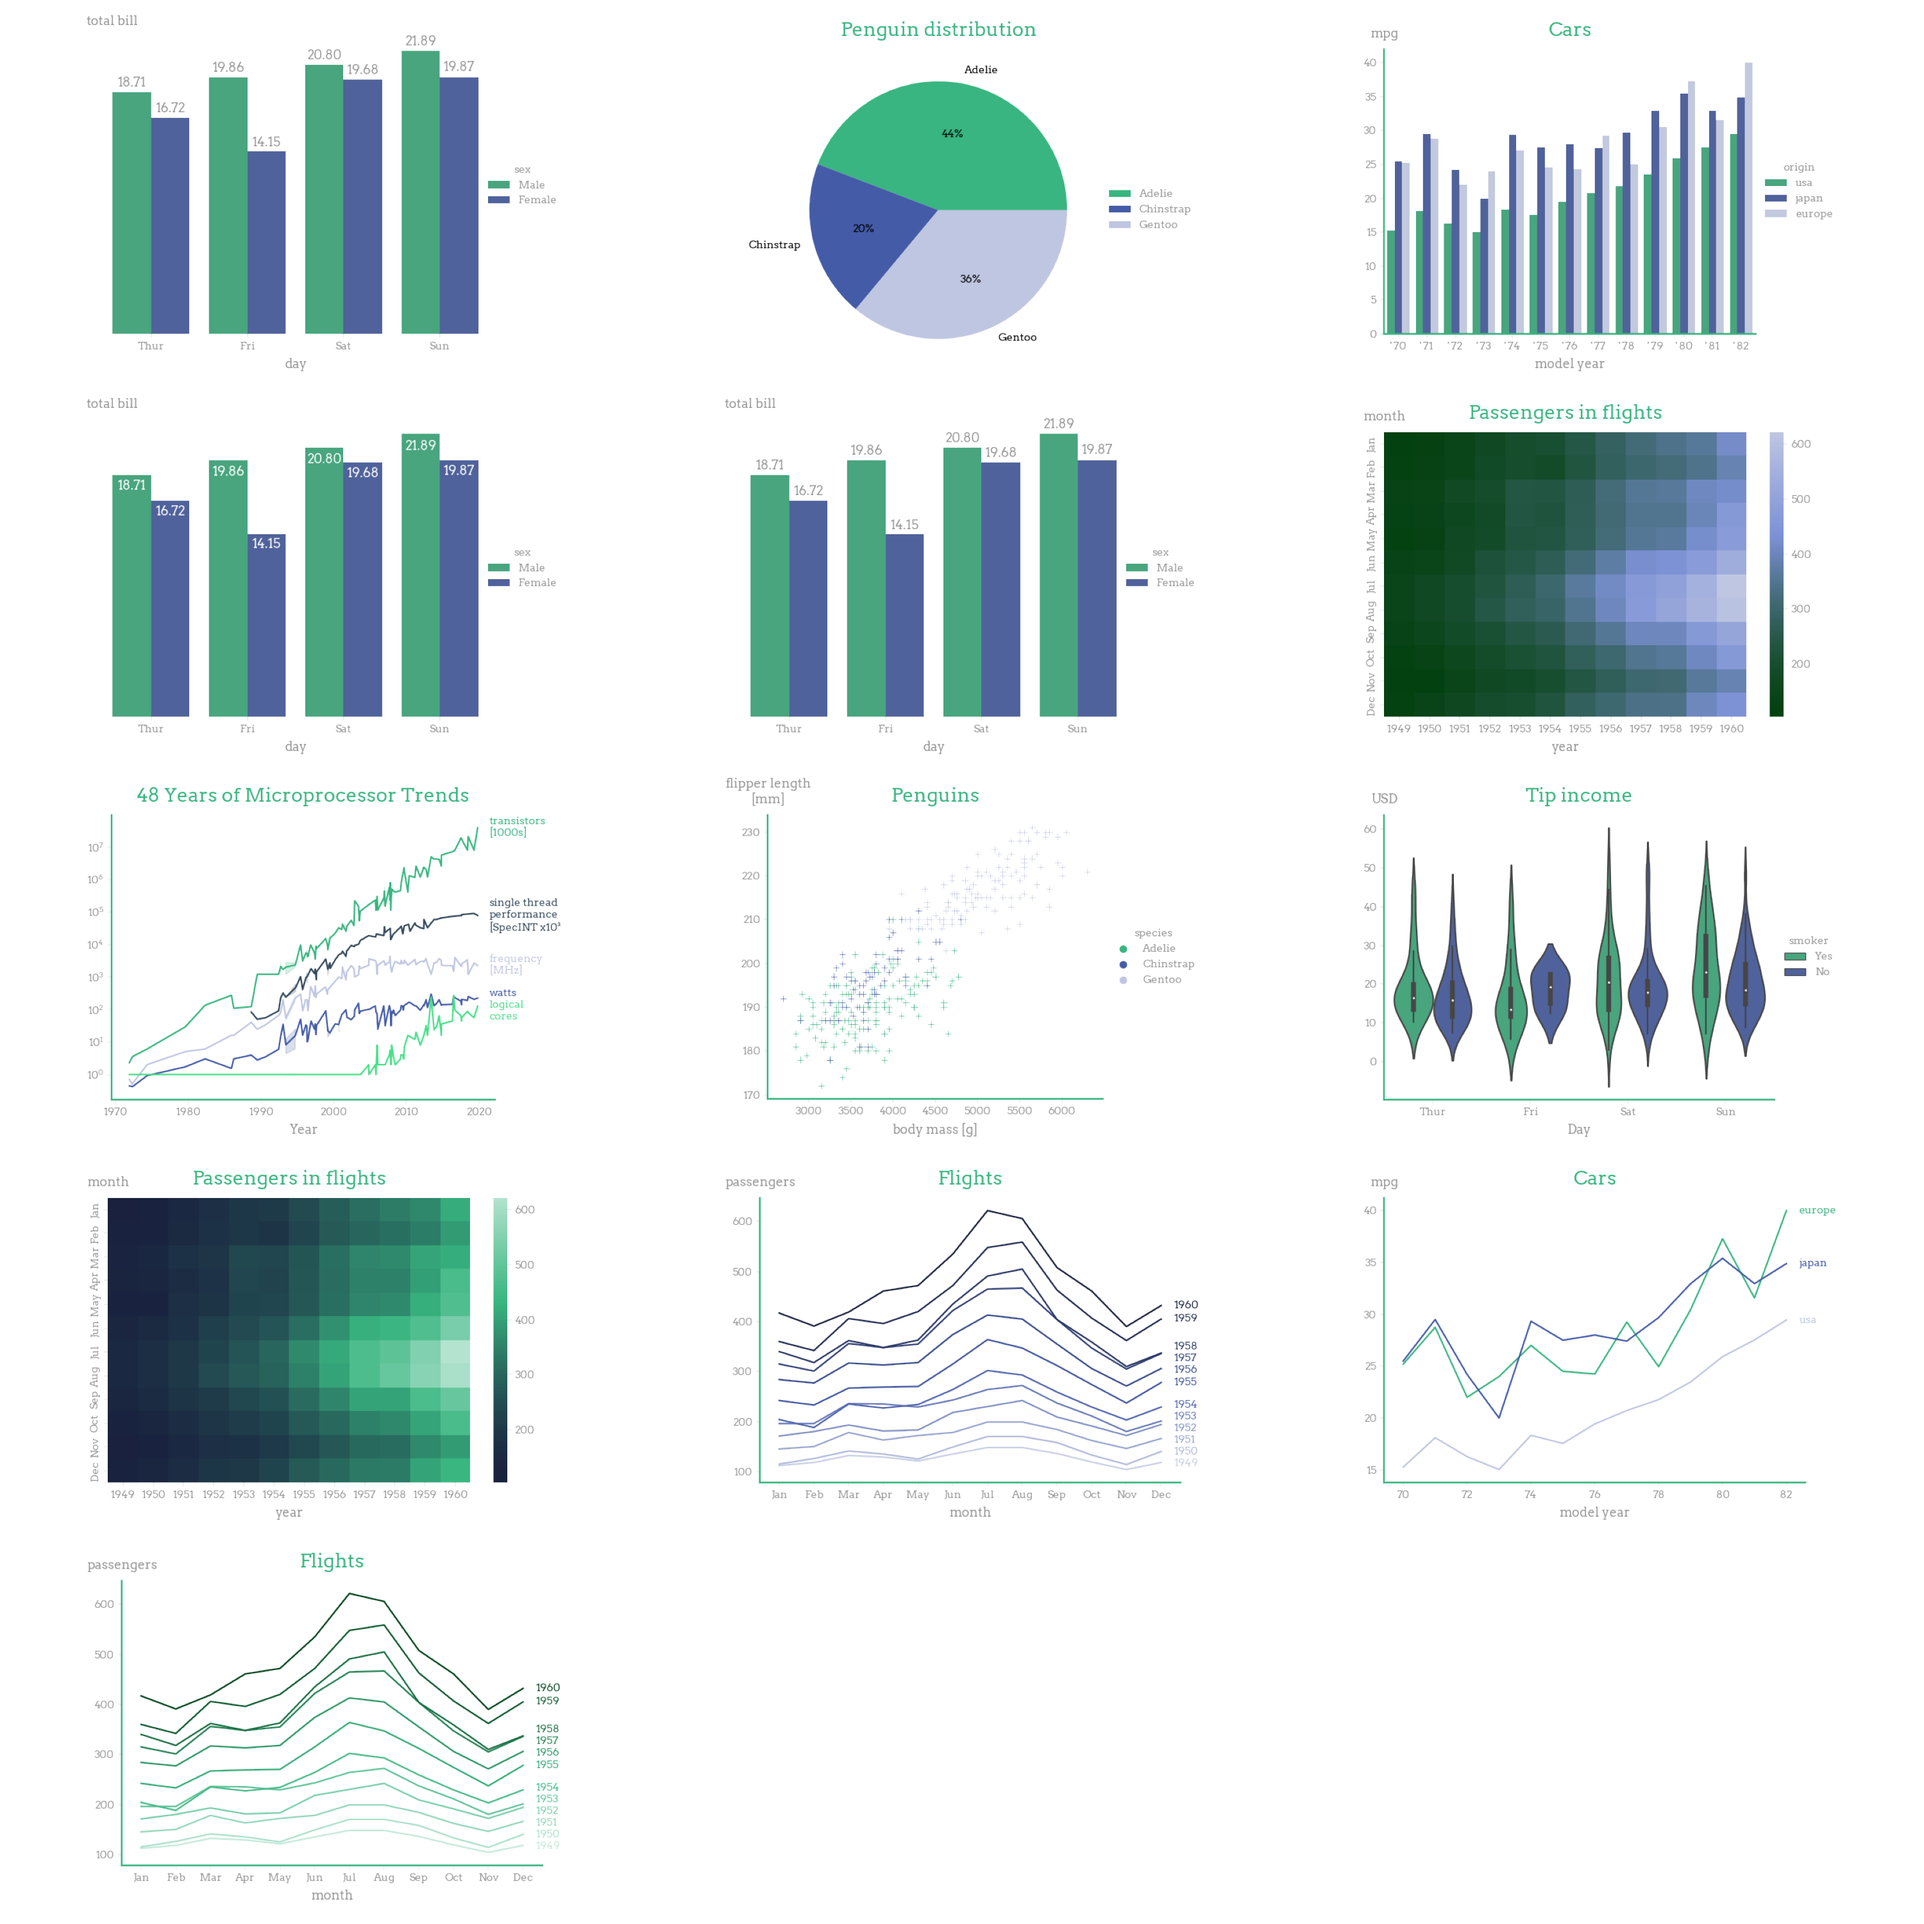
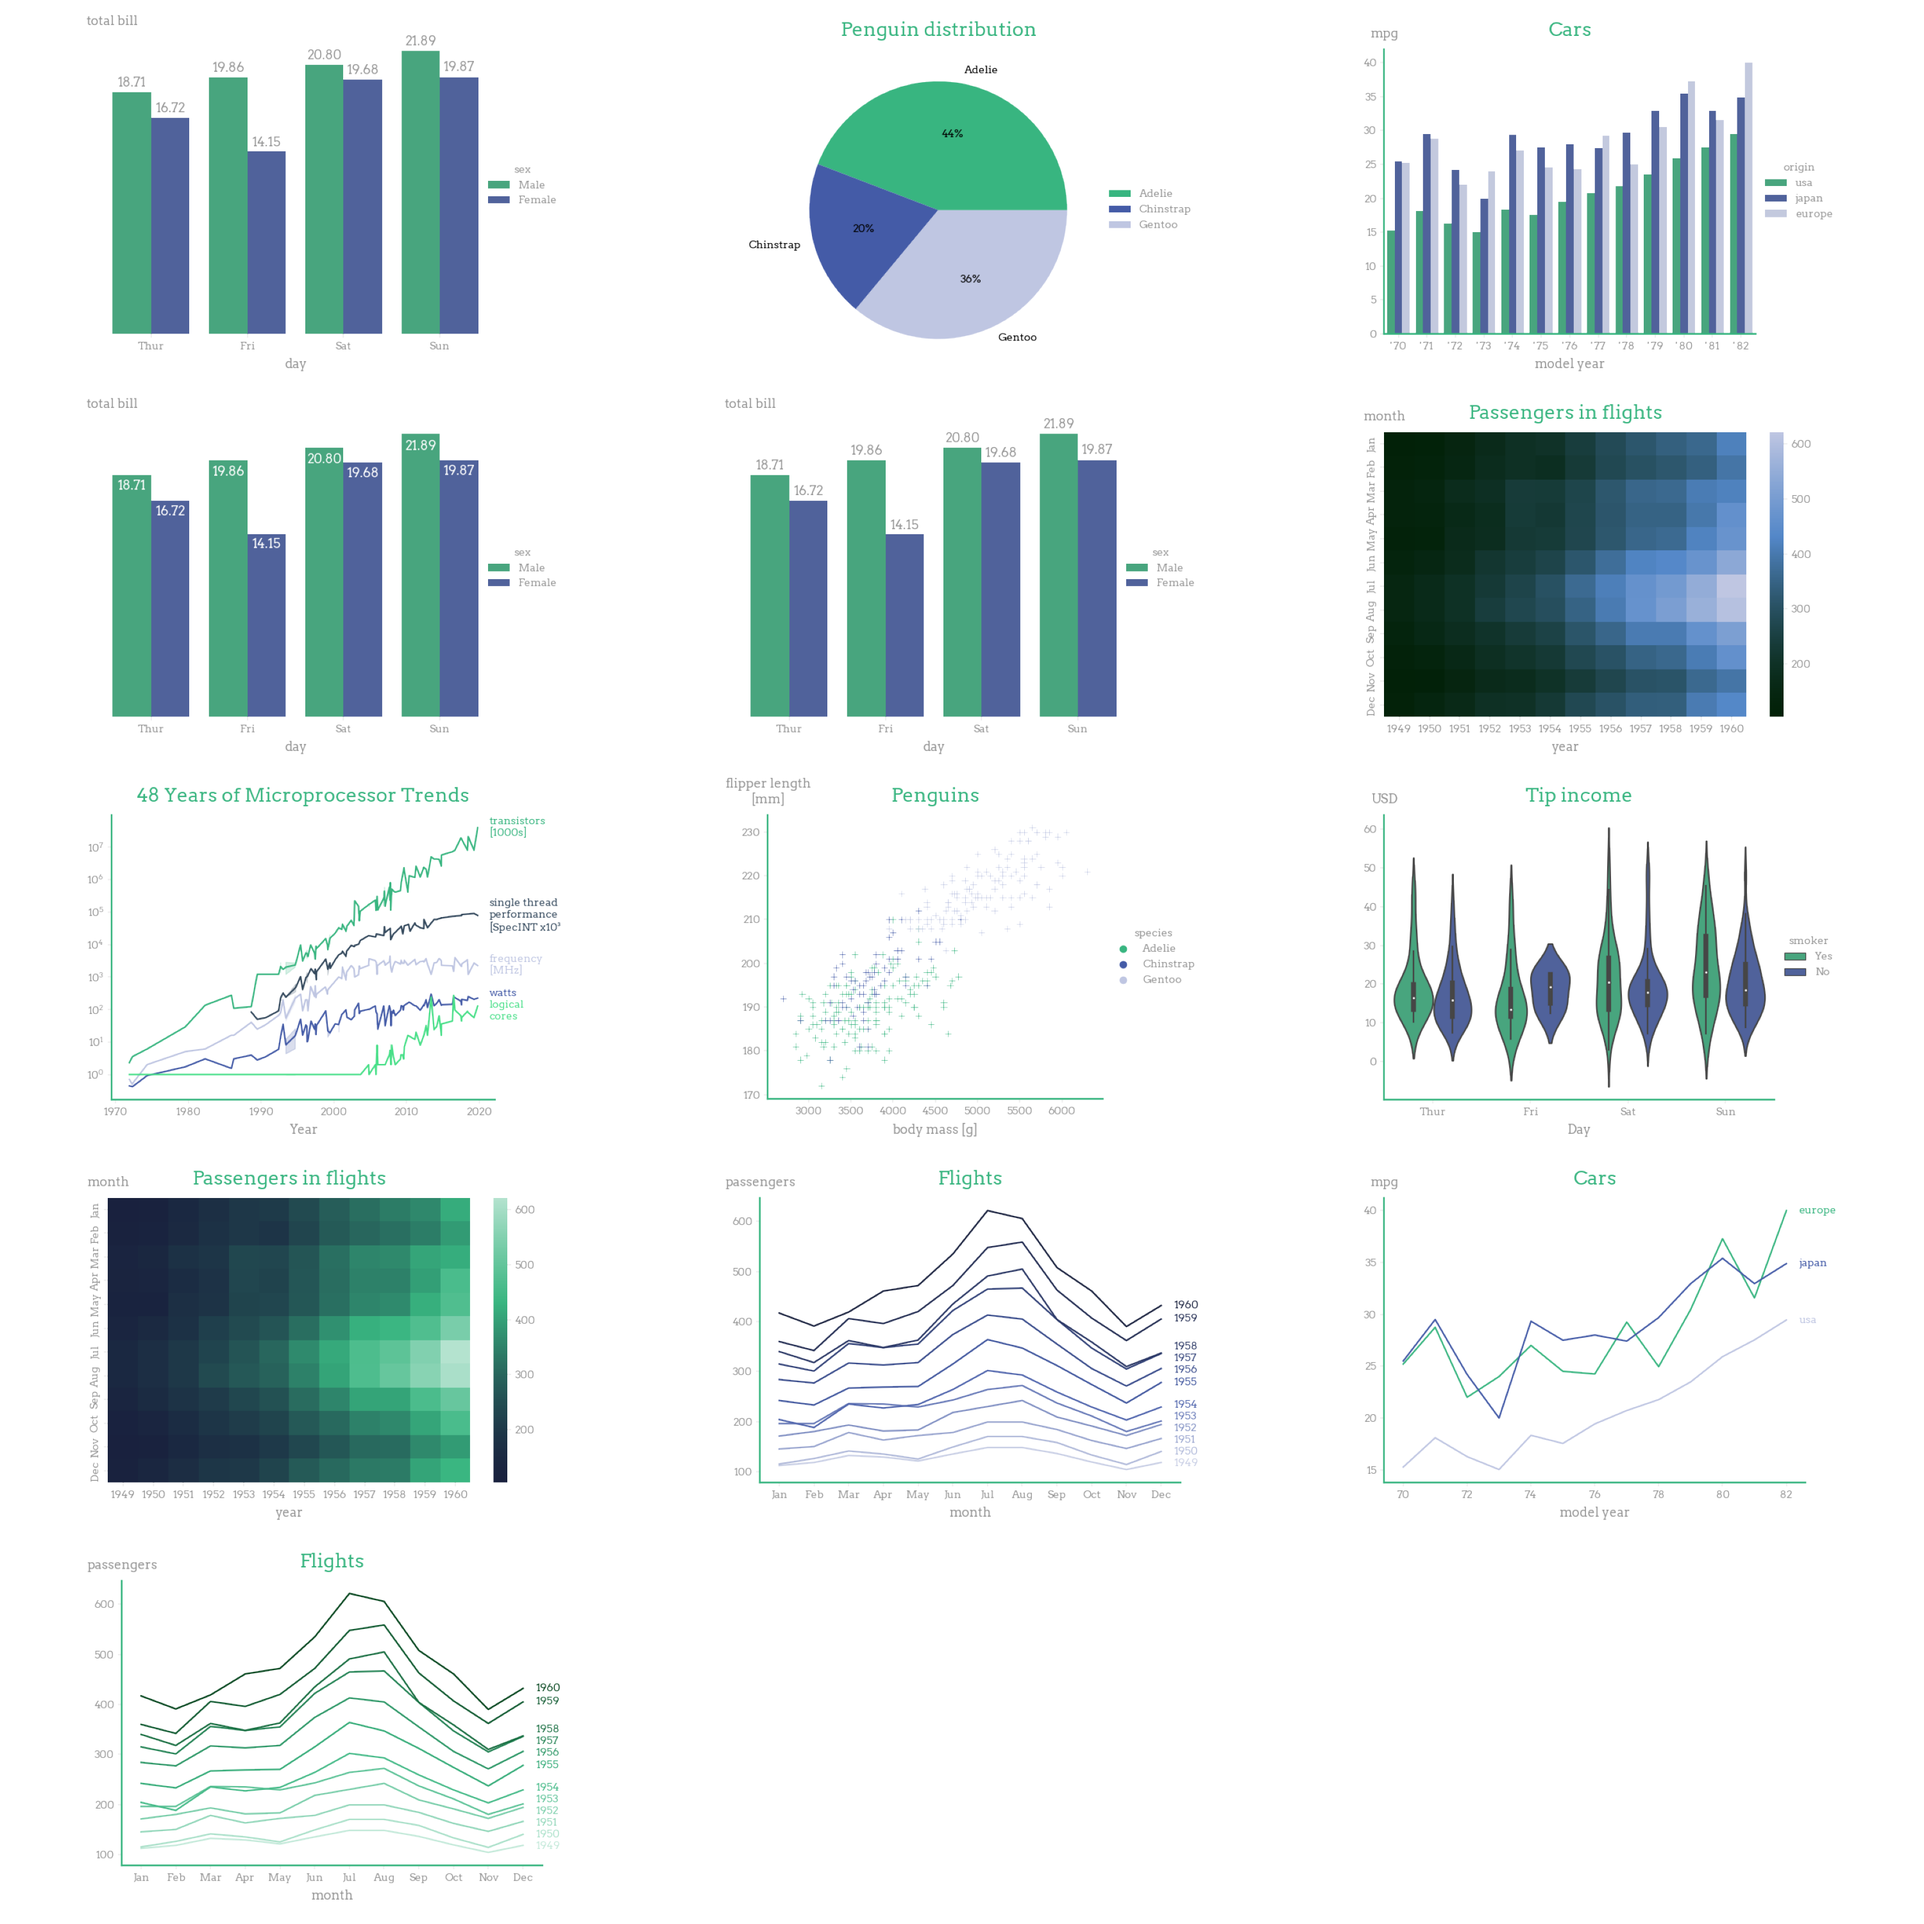
updated dataroots-green-to-blue palette

Changed region(s): [[0.713, 0.217, 0.93, 0.372]]

diff --git a/rootsstyle/_colors.py b/rootsstyle/_colors.py
@@ -30,7 +30,7 @@ palettes = {
     ),
     "dataroots-green-to-blue": LinearSegmentedColormap.from_list(
         name="dataroots-green-to-blue",
-        colors=["#044110", "#7C91D5", "#BFC6E2"],
+        colors=["#022108", "#5387C8", "#BFC6E2"],
         gamma=1.5,
     ),
 }

diff --git a/README.md b/README.md
@@ -16,18 +16,18 @@ Works with any visualization tools that builds upon Matplotlib (seaborn, pandas)
 
 
 ## Installation
-
+### using pip
 ```python
-# pip
 pip install matplotlib
 pip install -i https://test.pypi.org/simple/ rootsstyle
-
-# poetry
+```
+### using poetry
+```python
 # 1. Add repository to pyproject.toml
 [[tool.poetry.source]]
 name = "testpypi"
 url = "https://test.pypi.org/simple/"
-# 2. Add package and automatically install dependencies
+# 2. Add package and automatically resolve dependencies
 poetry add rootsstyle
 ```
 
